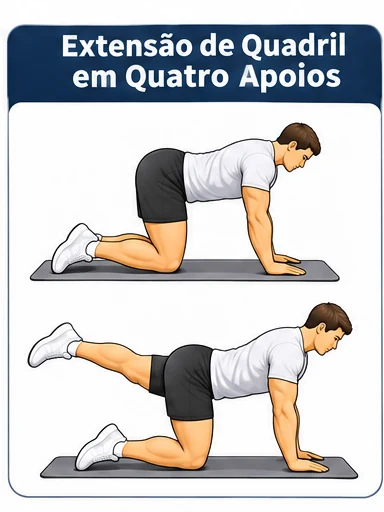
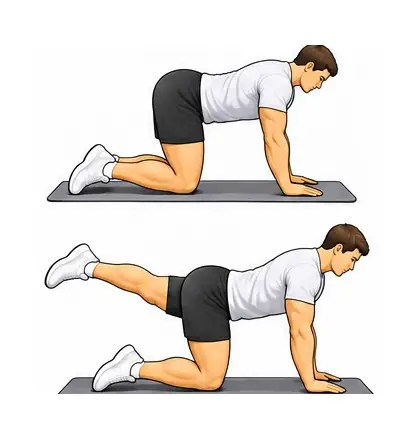
fix: streak por dias ativos e 11 ilustrações sem títulos (V sit ups)

diff --git a/src/lib/stats.ts b/src/lib/stats.ts
@@ -1,5 +1,4 @@
 import type { CardioLog, Session, SetLog, WeeklySchedule } from '../types';
-import { WEEKDAY_ORDER } from '../types';
 
 export interface ExerciseHistoryPoint {
   date: string; // ISO
@@ -109,83 +108,108 @@ export function getTrainedExerciseIds(sessions: Session[]): string[] {
 }
 
 export interface WeeklyFrequencyPoint {
-  weekStart: string; // ISO date (Monday)
-  count: number;
+  weekStart: string; // data local da segunda-feira, AAAA-MM-DD
+  count: number; // dias distintos com atividade, não quantidade de sessões
+}
+
+/** Dia civil do usuário; nunca usar toISOString().slice(0,10) para registros locais. */
+function localDay(date: Date): string {
+  const year = date.getFullYear();
+  const month = String(date.getMonth() + 1).padStart(2, '0');
+  const day = String(date.getDate()).padStart(2, '0');
+  return `${year}-${month}-${day}`;
 }
 
 function startOfWeek(d: Date): Date {
   const date = new Date(d);
-  const day = date.getDay(); // 0 = Sunday
-  const diff = day === 0 ? -6 : 1 - day; // move to Monday
-  date.setDate(date.getDate() + diff);
+  const day = date.getDay(); // domingo = 0
+  date.setDate(date.getDate() + (day === 0 ? -6 : 1 - day));
   date.setHours(0, 0, 0, 0);
   return date;
 }
 
-/** Number of finished sessions per ISO week, for the last N weeks (oldest first). */
-export function getWeeklyFrequency(sessions: Session[], weeks = 12): WeeklyFrequencyPoint[] {
-  const finished = sessions.filter((s) => s.finishedAt);
+/** Cardio, força, HYROX ou a combinação: um único dia ativo por data local.
+ * Login sem registro não conta como atividade. Sessões incompletas não contam.
+ */
+export function getActiveTrainingDays(sessions: Session[], cardioLogs: CardioLog[]): Set<string> {
+  const dates = new Set<string>();
+  for (const session of sessions) {
+    if (!session.finishedAt) continue;
+    const completed = new Date(session.finishedAt);
+    if (!Number.isNaN(completed.getTime())) dates.add(localDay(completed));
+  }
+  for (const log of cardioLogs) {
+    if (/^\d{4}-\d{2}-\d{2}$/.test(log.date) && Number.isFinite(log.durationMin) && log.durationMin > 0) {
+      dates.add(log.date);
+    }
+  }
+  return dates;
+}
+
+/** Dias com ao menos uma atividade, por semana (segunda a domingo). */
+export function getWeeklyFrequency(sessions: Session[], cardioLogs: CardioLog[] = [], weeks = 12): WeeklyFrequencyPoint[] {
   const now = new Date();
   const buckets: WeeklyFrequencyPoint[] = [];
+  const byWeek = new Map<string, WeeklyFrequencyPoint>();
   for (let i = weeks - 1; i >= 0; i--) {
-    const weekDate = new Date(now);
-    weekDate.setDate(now.getDate() - i * 7);
-    const ws = startOfWeek(weekDate);
-    buckets.push({ weekStart: ws.toISOString().slice(0, 10), count: 0 });
+    const date = new Date(now);
+    date.setDate(now.getDate() - i * 7);
+    const weekStart = localDay(startOfWeek(date));
+    const bucket = { weekStart, count: 0 };
+    buckets.push(bucket);
+    byWeek.set(weekStart, bucket);
   }
-  for (const s of finished) {
-    const ws = startOfWeek(new Date(s.finishedAt as string)).toISOString().slice(0, 10);
-    const bucket = buckets.find((b) => b.weekStart === ws);
+  const today = localDay(now);
+  for (const day of getActiveTrainingDays(sessions, cardioLogs)) {
+    if (day > today) continue; // lançamento futuro não vira treino realizado
+    const weekStart = localDay(startOfWeek(new Date(day + 'T12:00:00')));
+    const bucket = byWeek.get(weekStart);
     if (bucket) bucket.count += 1;
   }
   return buckets;
 }
 
-export function getCurrentStreakWeeks(sessions: Session[]): number {
-  const freq = getWeeklyFrequency(sessions, 52);
+export function getCurrentStreakWeeks(sessions: Session[], cardioLogs: CardioLog[] = []): number {
+  const frequency = getWeeklyFrequency(sessions, cardioLogs, 52);
+  let count = 0;
+  for (let i = frequency.length - 1; i >= 0; i--) {
+    if (frequency[i].count === 0) break;
+    count += 1;
+  }
+  return count;
+}
+
+/** Foguinho: sequência de dias consecutivos com atividade de qualquer modalidade.
+ * Cada data conta no máximo uma vez. O dia atual fica em aberto até ser concluído:
+ * se hoje ainda não houve atividade, uma sequência que terminou ontem continua
+ * aparecendo. Dias sem registro no passado quebram a sequência — mesmo que estejam
+ * marcados como descanso na agenda. A agenda não cria atividades fictícias.
+ */
+export function getCurrentStreakDays(
+  sessions: Session[], cardioLogs: CardioLog[], _weeklySchedule?: WeeklySchedule, today = new Date(),
+): number {
+  const activeDays = getActiveTrainingDays(sessions, cardioLogs);
+  const cursor = new Date(today);
+  cursor.setHours(12, 0, 0, 0); // mantém dia civil ao atravessar mudanças de horário
+  if (!activeDays.has(localDay(cursor))) cursor.setDate(cursor.getDate() - 1);
   let streak = 0;
-  for (let i = freq.length - 1; i >= 0; i--) {
-    if (freq[i].count > 0) streak += 1;
-    else break;
+  for (let guard = 0; guard < 3650; guard++) {
+    if (!activeDays.has(localDay(cursor))) break;
+    streak += 1;
+    cursor.setDate(cursor.getDate() - 1);
   }
   return streak;
 }
 
-/**
- * "Foguinho" de dias ativos: conta os dias consecutivos (terminando hoje) com
- * pelo menos um treino de força concluído ou uma atividade de cardio registrada.
- * Um dia de descanso PLANEJADO na agenda semanal não quebra a sequência — só
- * conta contra a pessoa se ela pulou um dia que deveria ter treino ou cardio.
- * O dia de hoje nunca quebra a sequência sozinho (pode ainda estar por vir).
- */
-export function getCurrentStreakDays(sessions: Session[], cardioLogs: CardioLog[], weeklySchedule: WeeklySchedule): number {
-  const activeDates = new Set<string>();
-  sessions.forEach((s) => {
-    if (s.finishedAt) activeDates.add(s.finishedAt.slice(0, 10));
-  });
-  cardioLogs.forEach((c) => activeDates.add(c.date));
+export function getTrainingDaysThisWeek(sessions: Session[], cardioLogs: CardioLog[]): number {
+  return getWeeklyFrequency(sessions, cardioLogs, 1)[0]?.count ?? 0;
+}
 
-  let streak = 0;
-  const cursor = new Date();
-  cursor.setHours(0, 0, 0, 0);
-  let isToday = true;
-  for (let guard = 0; guard < 3650; guard++) {
-    const iso = cursor.toISOString().slice(0, 10);
-    const weekdayKey = WEEKDAY_ORDER[(cursor.getDay() + 6) % 7];
-    const hasActivity = activeDates.has(iso);
-    if (hasActivity) {
-      streak += 1;
-    } else if (weeklySchedule[weekdayKey]?.kind === 'descanso') {
-      // dia de descanso planejado: não conta, mas também não quebra
-    } else if (isToday) {
-      // hoje ainda pode acontecer: não conta a favor nem quebra
-    } else {
-      break;
-    }
-    isToday = false;
-    cursor.setDate(cursor.getDate() - 1);
-  }
-  return streak;
+export function getTrainingDaysThisMonth(sessions: Session[], cardioLogs: CardioLog[]): number {
+  const currentMonth = localDay(new Date()).slice(0, 7);
+  const today = localDay(new Date());
+  return [...getActiveTrainingDays(sessions, cardioLogs)]
+    .filter(day => day.startsWith(currentMonth) && day <= today).length;
 }
 
 /** Início (segunda-feira, 00:00) da semana atual. */
@@ -215,12 +239,18 @@ export function getVolumeThisWeek(sessions: Session[]): number {
 }
 
 /** Tempo total treinado (em minutos) na semana atual. */
-export function getTrainingMinutesThisWeek(sessions: Session[]): number {
+export function getTrainingMinutesThisWeek(sessions: Session[], cardioLogs: CardioLog[] = []): number {
   const start = startOfCurrentWeek();
+  const today = localDay(new Date());
   let seconds = 0;
   for (const s of sessions) {
     if (!s.finishedAt || new Date(s.finishedAt) < start) continue;
     seconds += s.durationSeconds ?? 0;
+  }
+  for (const log of cardioLogs) {
+    if (log.date >= localDay(start) && log.date <= today && Number.isFinite(log.durationMin) && log.durationMin > 0) {
+      seconds += log.durationMin * 60;
+    }
   }
   return Math.round(seconds / 60);
 }

diff --git a/src/pages/Progress.tsx b/src/pages/Progress.tsx
@@ -16,7 +16,7 @@ import { Flame, CalendarCheck, Scale, Activity } from 'lucide-react';
 import { useAppData } from '../hooks/useAppData';
 import { useAuth } from '../hooks/useAuth';
 import { useProfile } from '../hooks/useProfile';
-import { getWeeklyFrequency, getCurrentStreakDays, getTotalSessionsThisMonth } from '../lib/stats';
+import { getWeeklyFrequency, getCurrentStreakDays, getTrainingDaysThisMonth } from '../lib/stats';
 import { calcImc, classifyImc, healthyWeightRangeKg } from '../lib/imc';
 import { PageHeader, Card, EmptyState, Pill } from '../components/ui';
 import { chartColors, seriesOrder, tooltipStyle } from '../lib/chartTheme';
@@ -72,10 +72,10 @@ export function Progress() {
   const [profile] = useProfile(user?.id);
   const [activeFields, setActiveFields] = useState<Set<string>>(new Set(['waistCm']));
 
-  const freq = useMemo(() => getWeeklyFrequency(sessions, 10), [sessions]);
+  const freq = useMemo(() => getWeeklyFrequency(sessions, cardioLogs, 10), [sessions, cardioLogs]);
   const freqData = freq.map((f) => ({
     week: new Date(f.weekStart).toLocaleDateString('pt-BR', { day: '2-digit', month: '2-digit' }),
-    treinos: f.count,
+    dias: f.count,
   }));
 
   const sortedByDate = measurements.slice().sort((a, b) => a.date.localeCompare(b.date));
@@ -115,7 +115,7 @@ export function Progress() {
 
   // ---------- Resumo do topo ----------
   const streakDays = getCurrentStreakDays(sessions, cardioLogs, weeklySchedule);
-  const monthCount = getTotalSessionsThisMonth(sessions);
+  const monthCount = getTrainingDaysThisMonth(sessions, cardioLogs);
   const trendCutoff = Date.now() - 28 * 24 * 60 * 60 * 1000;
   const baselineWeightEntry =
     weightEntries.slice().reverse().find((m) => Date.parse(m.date) <= trendCutoff) ?? weightEntries[0];
@@ -144,7 +144,7 @@ export function Progress() {
     .filter(item=>item.stats.count>0);
   const recentMeasurements=sortedByDate.slice(-6).reverse();
 
-  const hasAnyData = sessions.some((s) => s.finishedAt) || measurements.length > 0;
+  const hasAnyData = sessions.some((s) => s.finishedAt) || cardioLogs.length > 0 || measurements.length > 0;
 
   if (!hasAnyData) {
     return (
@@ -165,7 +165,7 @@ export function Progress() {
           label="Sequência"
           value={`${streakDays} dia${streakDays === 1 ? '' : 's'}`}
         />
-        <StatTile icon={<CalendarCheck size={13} />} label="Treinos/mês" value={String(monthCount)} />
+        <StatTile icon={<CalendarCheck size={13} />} label="Dias ativos/mês" value={String(monthCount)} />
         <StatTile
           icon={<Scale size={13} />}
           label="Peso"
@@ -231,7 +231,7 @@ export function Progress() {
         </div>
       </Card>
       <Card className="mb-4">
-        <p className="text-sm font-medium mb-3">Frequência de treino (10 semanas)</p>
+        <p className="text-sm font-medium mb-3">Frequência de treino (10 semanas) · dias ativos</p>
         <div style={{ width: '100%', height: 160 }}>
           <ResponsiveContainer>
             <BarChart data={freqData} margin={{ top: 4, right: 8, bottom: 0, left: 0 }}>
@@ -242,9 +242,9 @@ export function Progress() {
                 contentStyle={tooltipStyle}
                 labelStyle={{ color: chartColors.textSecondary }}
                 cursor={{ fill: 'rgba(255,255,255,0.04)' }}
-                formatter={(value) => [value, 'Treinos']}
+                formatter={(value) => [value, 'Dias ativos']}
               />
-              <Bar dataKey="treinos" fill={chartColors.categorical.blue} radius={[4, 4, 0, 0]} maxBarSize={22} />
+              <Bar dataKey="dias" fill={chartColors.categorical.blue} radius={[4, 4, 0, 0]} maxBarSize={22} />
             </BarChart>
           </ResponsiveContainer>
         </div>

diff --git a/src/pages/Home.tsx b/src/pages/Home.tsx
@@ -5,7 +5,7 @@ import { useAppData } from '../hooks/useAppData';
 import { useAuth } from '../hooks/useAuth';
 import { useProfile } from '../hooks/useProfile';
 import { startSession } from '../lib/actions';
-import { getCurrentStreakDays, getSessionsThisWeek, getVolumeThisWeek, getTrainingMinutesThisWeek } from '../lib/stats';
+import { getCurrentStreakDays, getTrainingDaysThisWeek, getVolumeThisWeek, getTrainingMinutesThisWeek } from '../lib/stats';
 import { getTopCoachTip } from '../lib/coach';
 import { computeGroupReadiness, READINESS_COLORS, READINESS_ORDER } from '../lib/recovery';
 import type { Readiness } from '../lib/recovery';
@@ -67,9 +67,9 @@ export function Home() {
 
   const active = workouts.filter((w) => !w.archived);
   const streak = getCurrentStreakDays(sessions, cardioLogs, weeklySchedule);
-  const weekSessions = getSessionsThisWeek(sessions);
+  const weekSessions = getTrainingDaysThisWeek(sessions, cardioLogs);
   const weekVolume = getVolumeThisWeek(sessions);
-  const weekMinutes = getTrainingMinutesThisWeek(sessions);
+  const weekMinutes = getTrainingMinutesThisWeek(sessions, cardioLogs);
   const coachTip = getTopCoachTip(sessions);
   const coachExercise = coachTip ? exercises.find((e) => e.id === coachTip.exerciseId) : null;
   const coachColor = coachTip?.action === 'increase' ? 'var(--success)' : coachTip?.action === 'deload' ? 'var(--warn)' : 'var(--text)';
@@ -362,7 +362,7 @@ export function Home() {
         style={{ borderTop: '1px solid var(--border-soft)', borderBottom: '1px solid var(--border-soft)' }}
       >
         <Metric icon={<Flame size={16} />} value={streak} label={`dia${streak !== 1 ? 's' : ''} seguidos`} color="var(--warn)" />
-        <Metric icon={<Play size={16} />} value={weekSessions} label="treinos/semana" color="var(--success)" />
+        <Metric icon={<Play size={16} />} value={weekSessions} label="dias ativos/semana" color="var(--success)" />
         <Metric icon={<Zap size={16} />} value={weekVolume.toLocaleString('pt-BR')} label="kg volume/semana" color="var(--brand-2)" />
         <Metric icon={<Timer size={16} />} value={formatMinutes(weekMinutes)} label="tempo/semana" />
       </div>

diff --git a/src/lib/userProvidedIllustrationMedia.ts b/src/lib/userProvidedIllustrationMedia.ts
@@ -1,6 +1,6 @@
-/** Dez ilustrações fornecidas pelo usuário em 11/11/2026.
+/** Onze ilustrações do guia FitBox, incluindo V sit ups.
  * Cada ID é vinculado ao próprio quadro WebP. Sem substituições por similaridade.
- * São cartões completos, com título, e não células dos antigos atlas de 5 colunas.
+ * Os arquivos são recortes limpos: somente desenhos, sem títulos, barras ou moldura.
  * A ausência de arquivo mantém a demonstração anterior, sem URLs quebradas.
  */
 export const USER_PROVIDED_ILLUSTRATIONS = {
@@ -14,6 +14,7 @@ export const USER_PROVIDED_ILLUSTRATIONS = {
   'ex-new-pullthroughnocabo': 'pull-through-no-cabo.webp',
   'ex-new-roscanobancoinclinado': 'rosca-no-banco-inclinado.webp',
   'ex-new-russiantwistcomanilha': 'russian-twist-com-anilha.webp',
+  'ex-new-vsitups': 'v-sit-ups.webp',
 } as const;
 
 const files = import.meta.glob('../assets/exercise-guide/user-updates-20261111/*.webp', {

diff --git a/src/lib/extraExercises.ts b/src/lib/extraExercises.ts
@@ -80,6 +80,7 @@ export const EXTRA_EXERCISES: Exercise[] = [
   { id: 'ex-new-elevacaopelvicanotrx', name: 'Elevação pélvica no TRX', muscleGroup: 'gluteo', equipment: 'TRX' },
   { id: 'ex-new-caminhadalateralcomminiband', name: 'Caminhada lateral com miniband', muscleGroup: 'gluteo', equipment: 'mini band' },
   { id: 'ex-new-abdominalcanivete', name: 'Abdominal canivete', muscleGroup: 'abdomen', equipment: 'peso corporal' },
+  { id: 'ex-new-vsitups', name: 'V sit ups', muscleGroup: 'abdomen', equipment: 'peso corporal' },
   { id: 'ex-new-hollowhold', name: 'Hollow hold', muscleGroup: 'abdomen', equipment: 'peso corporal' },
   { id: 'ex-new-pranchacomtoquenoombro', name: 'Prancha com toque no ombro', muscleGroup: 'abdomen', equipment: 'peso corporal' },
   { id: 'ex-new-pranchacomelevacaodeperna', name: 'Prancha com elevação de perna', muscleGroup: 'abdomen', equipment: 'peso corporal' },

diff --git a/docs/FITBOX_STREAK_VISUAL_FIX_2026-11-11.md b/docs/FITBOX_STREAK_VISUAL_FIX_2026-11-11.md
@@ -1,0 +1,1 @@
+# FitBox — streak por dia ativo e imagens de execução sem títulos\n\n- Um dia conta uma vez, independentemente de cardio, força, HYROX ou combinação.\n- Apenas sessões finalizadas e cardio com duração positiva.\n- Dias locais, não datas UTC da gravação.\n- Hoje incompleto não apaga sequência finalizada ontem.\n- Treino não registrado não é criado artificialmente por login nem por descanso agendado.\n- Indicadores semanais e mensais usam dias ativos distintos.\n- Onze imagens WebP limpas, sem títulos, incluindo V sit ups.\n- Exercício adicional V sit ups com ID e perfil anatômico.\n
